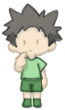
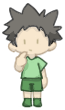
feat: add gender variation for child in game 2

diff --git a/lib/components/silhouette_container.dart b/lib/components/silhouette_container.dart
@@ -20,7 +20,7 @@ HasWorldReference<HospitalPuzzle> {
     child = SpriteComponent(
       anchor: Anchor.center,
       position: Vector2(225, 160),
-      sprite: Sprite(game.images.fromCache('Game_2/child_boy_before.png'))
+      sprite: Sprite(game.images.fromCache('Game_2/child_${game.playedCharacter}_before.png'))
     );
     childIsHappy = false;
     add(child);
@@ -34,7 +34,7 @@ HasWorldReference<HospitalPuzzle> {
   }
 
   FutureOr<void> changeChildSprite() async {
-    child.sprite = Sprite(game.images.fromCache('Game_2/child_boy_after.png'));
+    child.sprite = Sprite(game.images.fromCache('Game_2/child_${game.playedCharacter}_after.png'));
     childIsHappy = true;
   }
 }
